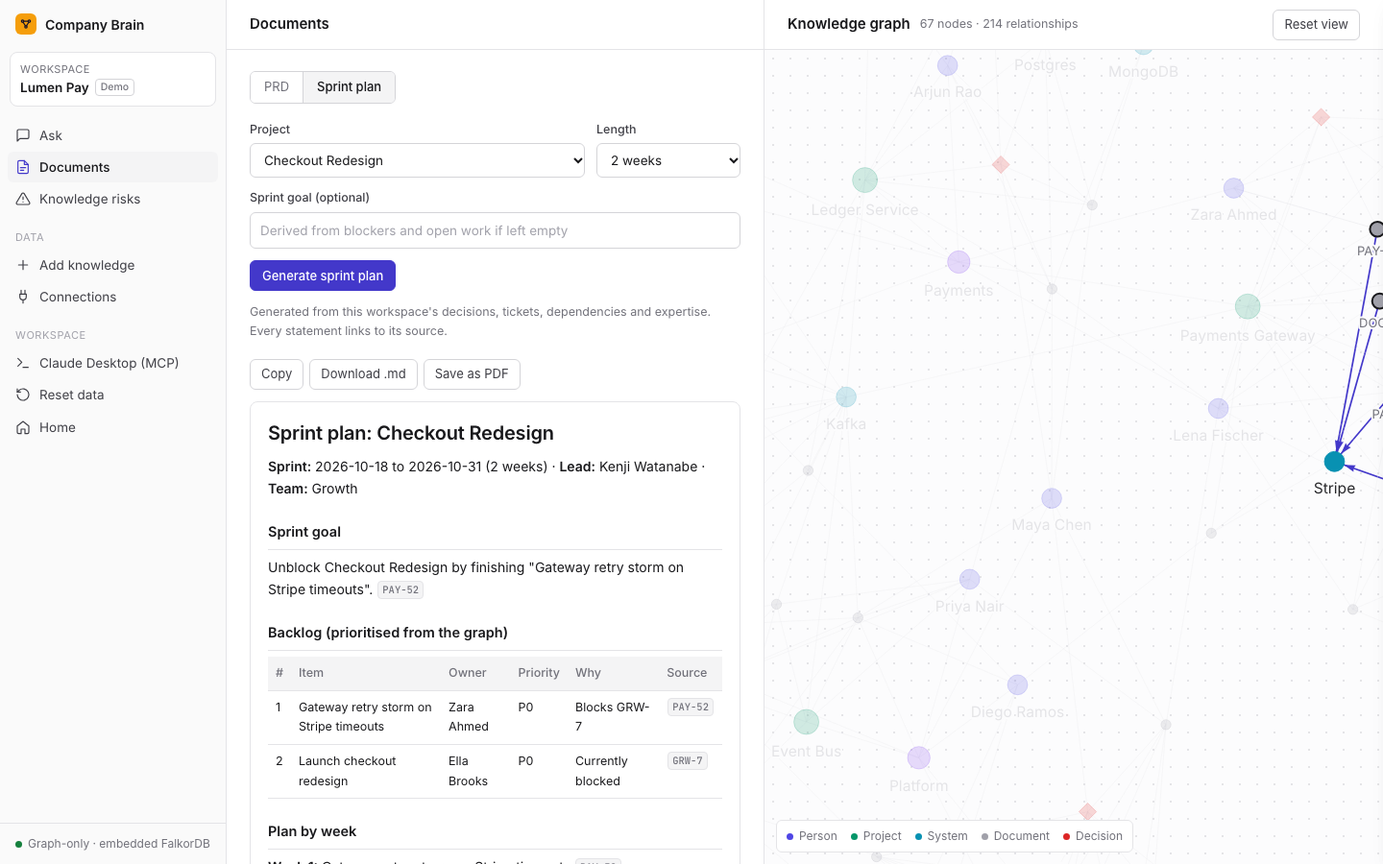
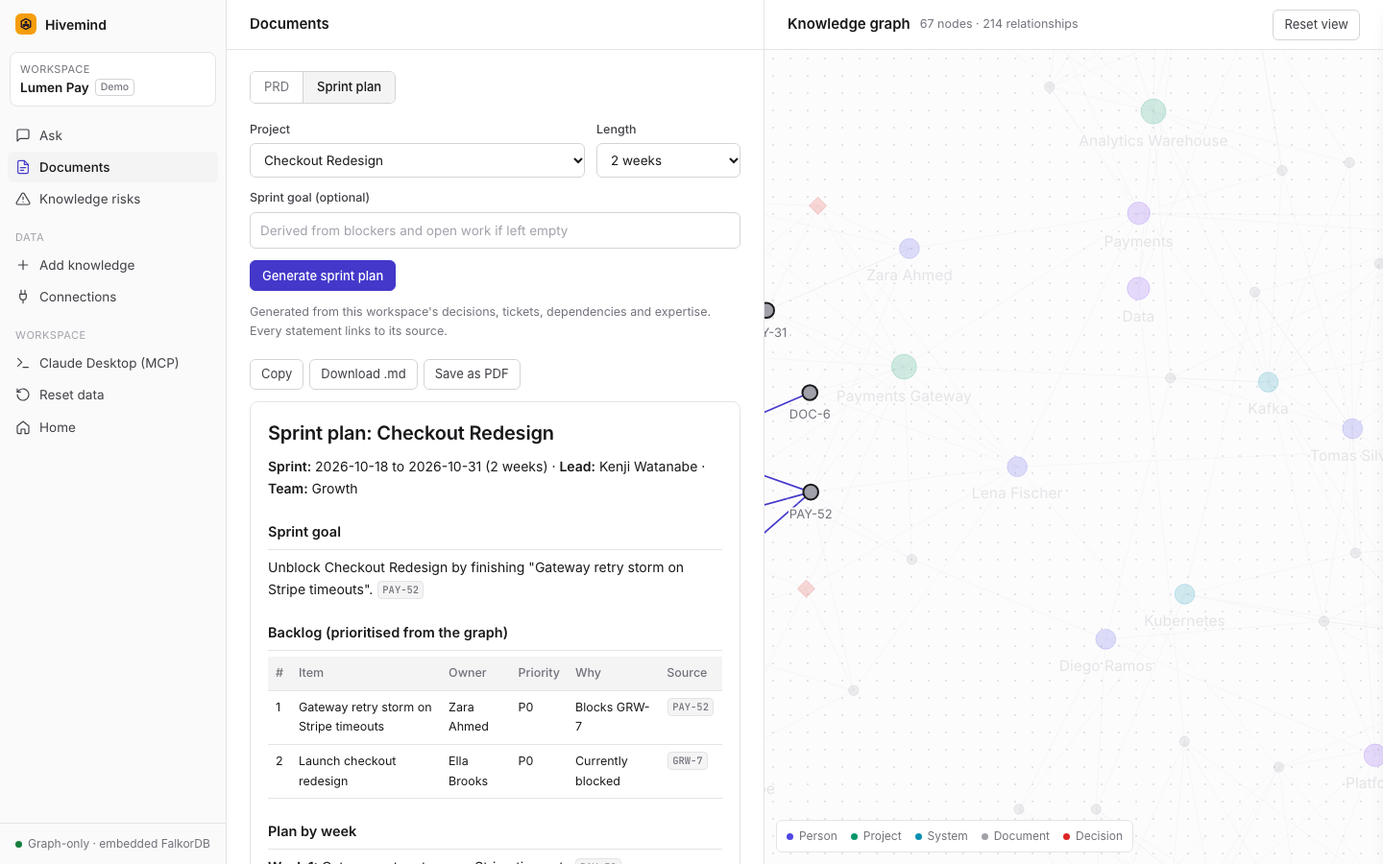
Rename the product to Hivemind
- New name across landing page, workspace app, README, MCP server, Slack app manifest and notifications
- Slack slash command is now /hivemind; hexagon 'hive' logo mark
- Cache-busting version on app.js so visitors get updates

diff --git a/static/landing.html b/static/landing.html
@@ -3,8 +3,8 @@
 <head>
 <meta charset="utf-8">
 <meta name="viewport" content="width=device-width, initial-scale=1">
-<title>Company Brain — The memory your company never had</title>
-<meta name="description" content="Company Brain turns your docs, tickets, chats and repositories into one knowledge graph. Ask who owns what, who knows what and why decisions were made — with sources — and generate PRDs and sprint plans.">
+<title>Hivemind — The memory your company never had</title>
+<meta name="description" content="Hivemind turns your docs, tickets, chats and repositories into one knowledge graph. Ask who owns what, who knows what and why decisions were made — with sources — and generate PRDs and sprint plans.">
 <link rel="preconnect" href="https://fonts.googleapis.com">
 <link rel="preconnect" href="https://images.unsplash.com">
 <link href="https://fonts.googleapis.com/css2?family=Fraunces:ital,opsz,wght@0,9..144,500;0,9..144,600;1,9..144,500&family=Inter:wght@400;500;600;700&family=JetBrains+Mono:wght@400;500&display=swap" rel="stylesheet">
@@ -228,7 +228,7 @@ footer .mark{width:24px;height:24px}
 </svg>
 
 <nav><div class="wrap">
-  <a class="brand" href="/"><span class="mark"><svg viewBox="0 0 24 24"><circle cx="6" cy="7" r="2"/><circle cx="18" cy="7" r="2"/><circle cx="12" cy="17" r="2"/><path d="M8 7h8M7 9l4 6M17 9l-4 6"/></svg></span>Company Brain</a>
+  <a class="brand" href="/"><span class="mark"><svg viewBox="0 0 24 24"><path d="M12 2.5 20.2 7.2v9.6L12 21.5 3.8 16.8V7.2z"/><circle cx="12" cy="9" r="1.6"/><circle cx="8.6" cy="14.4" r="1.6"/><circle cx="15.4" cy="14.4" r="1.6"/><path d="M12 10.6v0M10.5 13.3l.6-.9M13.5 13.3l-.6-.9M10.3 14.4h3.4"/></svg></span>Hivemind</a>
   <div class="links"><a href="#features">Features</a><a href="#tour">Product tour</a><a href="#connect">Integrations</a><a href="#how">How it works</a></div>
   <div class="r"><a class="btn ghost sm" href="/w/demo">Live demo</a><a class="btn sm" href="#start">Get started</a></div>
 </div></nav>
@@ -264,8 +264,8 @@ footer .mark{width:24px;height:24px}
 
 <section id="features"><div class="wrap">
   <div class="sec-head">
-    <div><div class="label">Features</div><h2>Not a search box. <em>A brain</em> that connects the dots.</h2></div>
-    <p>Company Brain models people, projects, systems, documents and decisions as a graph — so it can follow the relationships a keyword search can't.</p>
+    <div><div class="label">Features</div><h2>Not a search box. <em>A hive mind</em> that connects the dots.</h2></div>
+    <p>Hivemind models people, projects, systems, documents and decisions as a graph — so it can follow the relationships a keyword search can't.</p>
   </div>
   <div class="bento">
     <div class="tile t-big">
@@ -309,7 +309,7 @@ footer .mark{width:24px;height:24px}
   <div class="tourgrid">
     <div>
       <div class="pane on"><h3>"Why is checkout blocked?"</h3><p>The agent follows the graph from the project to the ticket that blocks it, and to the person who can fix it.</p>
-        <ul class="ticks"><li>Each step of the search shown live</li><li>Sources listed and clickable</li><li>Also in Slack with <span class="mono">/brain</span></li></ul></div>
+        <ul class="ticks"><li>Each step of the search shown live</li><li>Sources listed and clickable</li><li>Also in Slack with <span class="mono">/hivemind</span></li></ul></div>
       <div class="pane"><h3>A sprint plan in one click.</h3><p>Pick a project and length. The plan comes from its real tickets, blockers, decisions and experts.</p>
         <ul class="ticks"><li>Blockers before blocked work</li><li>Owners from assignees or expertise</li><li>Share to Slack, Teams or Discord</li></ul></div>
       <div class="pane"><h3>Know your bus factor.</h3><p>Graph algorithms surface where knowledge is concentrated and where work has quietly stalled.</p>
@@ -327,7 +327,7 @@ footer .mark{width:24px;height:24px}
   </div>
   <div>
     <div class="label">Why it matters</div>
-    <p class="pull">Knowledge leaves with people, hides in threads and repeats in meetings. <em>Company Brain keeps it.</em></p>
+    <p class="pull">Knowledge leaves with people, hides in threads and repeats in meetings. <em>Hivemind keeps it.</em></p>
     <ul class="ticks">
       <li>New hires find the answer — and the person — without asking around</li>
       <li>Decisions stop being re-argued: what, who, when and why are on record</li>
@@ -354,9 +354,9 @@ footer .mark{width:24px;height:24px}
       <div class="tool"><i style="background:#24292f">G</i><div><b>GitHub</b><span>Issues, PRs, comments</span></div></div>
       <div class="tool"><i style="background:#ff4f00">Z</i><div><b>Zapier · Make · n8n</b><span>Notion, email, anything</span></div></div>
     </div>
-    <div style="display:flex;align-items:center;gap:28px"><div class="arrow">→</div><div class="core"><div><b>Company<br>Brain</b><span>FalkorDB graph</span></div></div><div class="arrow">→</div></div>
+    <div style="display:flex;align-items:center;gap:28px"><div class="arrow">→</div><div class="core"><div><b>Hivemind</b><span>FalkorDB graph</span></div></div><div class="arrow">→</div></div>
     <div class="col"><h4>Answers out</h4>
-      <div class="tool"><i style="background:#4a154b">/</i><div><b>Slack</b><span><span class="mono">/brain</span> answers &amp; decision alerts</span></div></div>
+      <div class="tool"><i style="background:#4a154b">/</i><div><b>Slack</b><span><span class="mono">/hivemind</span> answers &amp; decision alerts</span></div></div>
       <div class="tool"><i style="background:#4b53bc">T</i><div><b>Microsoft Teams</b><span>Decision alerts &amp; shared plans</span></div></div>
       <div class="tool"><i style="background:#5865f2">D</i><div><b>Discord &amp; Google Chat</b><span>Decision alerts &amp; shared plans</span></div></div>
       <div class="tool"><i style="background:#d97757">C</i><div><b>Claude Desktop &amp; Cursor</b><span>Through MCP</span></div></div>
@@ -401,7 +401,7 @@ footer .mark{width:24px;height:24px}
 </div></section>
 
 <footer><div class="wrap">
-  <a class="brand" href="/" style="color:var(--ink)"><span class="mark"><svg viewBox="0 0 24 24"><circle cx="6" cy="7" r="2"/><circle cx="18" cy="7" r="2"/><circle cx="12" cy="17" r="2"/><path d="M8 7h8M7 9l4 6M17 9l-4 6"/></svg></span>Company Brain</a>
+  <a class="brand" href="/" style="color:var(--ink)"><span class="mark"><svg viewBox="0 0 24 24"><path d="M12 2.5 20.2 7.2v9.6L12 21.5 3.8 16.8V7.2z"/><circle cx="12" cy="9" r="1.6"/><circle cx="8.6" cy="14.4" r="1.6"/><circle cx="15.4" cy="14.4" r="1.6"/><path d="M12 10.6v0M10.5 13.3l.6-.9M13.5 13.3l-.6-.9M10.3 14.4h3.4"/></svg></span>Hivemind</a>
   <span>WeMakeDevs × FalkorDB Hackathon</span>
   <span>Photos: <a href="https://unsplash.com" target="_blank" rel="noopener">Unsplash</a></span>
 </div></footer>

diff --git a/static/app.js b/static/app.js
@@ -1,4 +1,4 @@
-// Company Brain workspace page: ask, write PRD / sprint plan, add info, and the company map.
+// Hivemind workspace page: ask, write PRD / sprint plan, add info, and the company map.
 const $ = id => document.getElementById(id);
 const esc = s => (s ?? '').toString().replace(/[&<>"]/g, c => ({ '&': '&amp;', '<': '&lt;', '>': '&gt;', '"': '&quot;' }[c]));
 const css = n => getComputedStyle(document.documentElement).getPropertyValue(n).trim();
@@ -156,7 +156,7 @@ document.addEventListener('click', async e => {
   if (act) {
     e.stopPropagation();
     const key = act.dataset.key, nd = act.dataset.act === 'nd';
-    if (!confirm(nd ? `Mark ${key} as not a decision? Anything it marked outdated becomes current again.` : `Remove ${key} from the brain?`)) return;
+    if (!confirm(nd ? `Mark ${key} as not a decision? Anything it marked outdated becomes current again.` : `Remove ${key} from Hivemind?`)) return;
     try {
       const r = (await api('/delete', { keys: [key] })).results[0];
       if (r.error) { toast(esc(r.error)); return; }
@@ -390,12 +390,12 @@ $('files').onchange = e => { importFiles([...e.target.files]); e.target.value = 
 ['dragleave', 'drop'].forEach(ev => $('drop').addEventListener(ev, e => { e.preventDefault(); $('drop').classList.remove('over'); }));
 $('drop').addEventListener('drop', e => importFiles([...e.dataTransfer.files]));
 function download(name, text, type) { const a = document.createElement('a'); a.href = URL.createObjectURL(new Blob([text], { type })); a.download = name; a.click(); }
-$('tpl-csv').onclick = e => { e.preventDefault(); download('company-brain-template.csv',
+$('tpl-csv').onclick = e => { e.preventDefault(); download('hivemind-template.csv',
   'kind,title,text,author,date,channel,status,assignee\n' +
   'meeting,Architecture review,"We decided to use Postgres for billing because the team knows it well.",Priya Sharma,2026-03-04,,,\n' +
   'message,,"Postgres replicas are lagging again, ping me if you see timeouts.",Arjun Mehta,2026-04-11,#infra,,\n' +
   'ticket,Fix replica lag,"Billing reads time out when replicas lag.",Priya Sharma,2026-04-12,,in_progress,Arjun Mehta\n', 'text/csv'); };
-$('tpl-json').onclick = e => { e.preventDefault(); download('company-brain-template.json', JSON.stringify({
+$('tpl-json').onclick = e => { e.preventDefault(); download('hivemind-template.json', JSON.stringify({
   people: [{ name: 'Priya Sharma', role: 'Engineering Manager', team: 'Platform' }, { name: 'Arjun Mehta', role: 'Backend Engineer', team: 'Payments' }],
   projects: [{ name: 'Billing', team: 'Payments', lead: 'Arjun Mehta', uses: ['Postgres', 'Stripe'] }],
   systems: [{ name: 'Postgres', aliases: ['postgresql', 'pg'] }, { name: 'Stripe' }],
@@ -409,7 +409,7 @@ $('gh-go').onclick = async () => {
   try {
     const r = await api('/import/github', { repo });
     setRes('gh-res', `Imported ${r.added} items from ${esc(r.repo)} into project <b>${esc(r.project)}</b>` +
-      (r.decisions ? `, found ${r.decisions} decisions` : '') + `. The brain now knows ${r.counts.Person || 0} people.`, true);
+      (r.decisions ? `, found ${r.decisions} decisions` : '') + `. Hivemind now knows ${r.counts.Person || 0} people.`, true);
     $('gh-repo').value = ''; await refresh();
   } catch (e) { if (e.message !== 'locked') setRes('gh-res', esc(e.message)); }
   $('gh-go').disabled = false;
@@ -452,7 +452,7 @@ $('c-save-slack').onclick = () => {
   if ($('c-secret').value.trim()) body.slack_signing_secret = $('c-secret').value.trim();
   if (!Object.keys(body).length) { setRes('c-slack-res', 'Paste the bot token and signing secret first.'); return; }
   $('c-token').value = ''; $('c-secret').value = '';
-  saveConn(body, 'c-slack-res', 'Slack saved. Invite @Company Brain to channels, then try /brain in Slack.');
+  saveConn(body, 'c-slack-res', 'Slack saved. Invite @Hivemind to channels, then try /hivemind in Slack.');
 };
 $('c-import-slack').onclick = async () => {
   setRes('c-slack-res', '<span class="spin"></span>Reading recent messages from channels the bot is in&hellip;', true);
@@ -525,7 +525,7 @@ const shareBtn = () => META && META.notify ? `<button class="ghost" data-share="
 
 // ---------- menu actions + gate ----------
 $('mcp').onclick = () => {
-  const cfg = { mcpServers: { 'company-brain': { command: 'python3', args: ['/path/to/mcp_server.py'],
+  const cfg = { mcpServers: { 'hivemind': { command: 'python3', args: ['/path/to/mcp_server.py'],
     env: { BRAIN_URL: location.origin, BRAIN_WORKSPACE: SLUG, BRAIN_KEY: META && META.workspace.demo ? '' : getKey() } } } };
   $('mcpcfg').textContent = JSON.stringify(cfg, null, 2); $('mcpmodal').classList.add('open');
 };
@@ -553,7 +553,7 @@ $('gate-go').onclick = () => {
 async function refresh() {
   try { META = await api('/meta'); } catch (e) { if (e.message !== 'locked') $('out').innerHTML = `<div class="card">${esc(e.message)}</div>`; return false; }
   const m = META;
-  document.title = m.workspace.name + ' · Company Brain';
+  document.title = m.workspace.name + ' · Hivemind';
   $('wsname').innerHTML = esc(m.workspace.name.replace(' (demo)', '')) + (m.workspace.demo ? '<span class="tag">Demo</span>' : '');
   $('mode').textContent = (m.claude ? 'Claude' : 'Graph-only') + ' · ' + m.backend;
   $('mode').title = m.claude ? 'Answers are planned and written by Claude using graph tools' : 'Answers come directly from graph queries (no AI key configured)';

diff --git a/static/index.html b/static/index.html
@@ -3,7 +3,7 @@
 <head>
 <meta charset="utf-8">
 <meta name="viewport" content="width=device-width, initial-scale=1">
-<title>Company Brain</title>
+<title>Hivemind</title>
 <link rel="preconnect" href="https://fonts.googleapis.com">
 <link href="https://fonts.googleapis.com/css2?family=Inter:wght@400;500;600&family=JetBrains+Mono:wght@400;500&display=swap" rel="stylesheet">
 <script src="https://unpkg.com/vis-network@9.1.9/standalone/umd/vis-network.min.js"></script>
@@ -237,7 +237,7 @@ details.team summary{font-size:14px;color:var(--ink);font-weight:600}
 
 <div class="shell" id="shell">
   <aside class="side">
-    <a href="/" class="brand"><span class="mark"><svg viewBox="0 0 24 24"><circle cx="6" cy="7" r="2"/><circle cx="18" cy="7" r="2"/><circle cx="12" cy="17" r="2"/><path d="M8 7h8M7 9l4 6M17 9l-4 6"/></svg></span><span>Company Brain</span></a>
+    <a href="/" class="brand"><span class="mark"><svg viewBox="0 0 24 24"><path d="M12 2.5 20.2 7.2v9.6L12 21.5 3.8 16.8V7.2z"/><circle cx="12" cy="9" r="1.6"/><circle cx="8.6" cy="14.4" r="1.6"/><circle cx="15.4" cy="14.4" r="1.6"/><path d="M12 10.6v0M10.5 13.3l.6-.9M13.5 13.3l-.6-.9M10.3 14.4h3.4"/></svg></span><span>Hivemind</span></a>
     <div class="wsbox"><div class="lbl">Workspace</div><div class="ws" id="wsname">&hellip;</div></div>
     <nav class="nav">
       <button class="on" data-view="ask"><svg class="i"><use href="#i-ask"/></svg>Ask</button>
@@ -371,11 +371,11 @@ details.team summary{font-size:14px;color:var(--ink);font-weight:600}
 
     <div class="sec card">
       <h4>Slack</h4>
-      <p class="d">Messages from channels the app is added to are captured automatically, and <span class="mono">/brain &lt;question&gt;</span> returns cited answers in Slack.</p>
+      <p class="d">Messages from channels the app is added to are captured automatically, and <span class="mono">/hivemind &lt;question&gt;</span> returns cited answers in Slack.</p>
       <ol class="muted" style="font-size:13px;line-height:1.75;padding-left:18px;margin:0 0 12px">
         <li><a href="#" id="c-manifest">Copy the app manifest</a>, then on <a href="https://api.slack.com/apps?new_app=1" target="_blank" rel="noopener">api.slack.com/apps</a> select <b>Create New App → From a manifest</b>.</li>
         <li>Install the app, then paste the <b>Bot User OAuth Token</b> and <b>Signing Secret</b>.</li>
-        <li>Add <b>@Company Brain</b> to the channels it should learn from.</li>
+        <li>Add <b>@Hivemind</b> to the channels it should learn from.</li>
       </ol>
       <div class="row"><div><label class="f">Bot token</label><input id="c-token" placeholder="xoxb-..." autocomplete="off"></div>
         <div><label class="f">Signing secret</label><input id="c-secret" type="password" placeholder="••••••" autocomplete="off"></div></div>
@@ -430,6 +430,6 @@ details.team summary{font-size:14px;color:var(--ink);font-weight:600}
   <div style="display:flex;gap:8px"><button class="btn" id="mcpcopy">Copy configuration</button><button class="ghost" id="mcpclose">Close</button></div>
 </div></div>
 <div class="toast" id="toast"></div>
-<script src="/static/app.js"></script>
+<script src="/static/app.js?v=hivemind-1"></script>
 </body>
 </html>

diff --git a/mcp_server.py b/mcp_server.py
@@ -1,9 +1,9 @@
-"""MCP server for Company Brain: use a company's brain from Claude Desktop, Cursor or any MCP client.
+"""MCP server for Hivemind: use a company's brain from Claude Desktop, Cursor or any MCP client.
 
-It talks to a running Company Brain site over HTTP, so it works with the hosted version.
+It talks to a running Hivemind site over HTTP, so it works with the hosted version.
 
 Setup (Claude Desktop, claude_desktop_config.json):
-  {"mcpServers": {"company-brain": {"command": "python3", "args": ["/path/to/mcp_server.py"],
+  {"mcpServers": {"hivemind": {"command": "python3", "args": ["/path/to/mcp_server.py"],
      "env": {"BRAIN_URL": "https://your-site.onrender.com", "BRAIN_WORKSPACE": "your-workspace-slug",
              "BRAIN_KEY": "your-private-key"}}}}
 Requires: pip install mcp
@@ -22,8 +22,8 @@ BASE = os.environ.get("BRAIN_URL", "http://localhost:8000").rstrip("/")
 SLUG = os.environ.get("BRAIN_WORKSPACE", "demo")
 KEY = os.environ.get("BRAIN_KEY", "")
 
-server = _Server("company-brain", instructions=(
-    "Company Brain holds this company's people, teams, projects, tools, docs, tickets, chats and decisions as a "
+server = _Server("hivemind", instructions=(
+    "Hivemind holds this company's people, teams, projects, tools, docs, tickets, chats and decisions as a "
     "knowledge graph. Use ask_company for questions (who owns/knows what, why decisions were made), "
     "write_prd / write_sprint_plan for planning documents, and add_to_brain to record new knowledge. "
     "Keep the [KEY] citations in answers so people can check the sources."))
@@ -42,9 +42,9 @@ def _call(path: str, body: dict | None = None) -> dict:
             detail = json.loads(e.read().decode()).get("detail")
         except Exception:
             detail = None
-        raise RuntimeError(detail if isinstance(detail, str) else f"Company Brain returned HTTP {e.code}")
+        raise RuntimeError(detail if isinstance(detail, str) else f"Hivemind returned HTTP {e.code}")
     except urllib.error.URLError as e:
-        raise RuntimeError(f"Could not reach Company Brain at {BASE}: {e.reason}")
+        raise RuntimeError(f"Could not reach Hivemind at {BASE}: {e.reason}")
 
 
 def _with_sources(text: str, citations: list) -> str:
@@ -56,7 +56,7 @@ def _with_sources(text: str, citations: list) -> str:
 
 @server.tool()
 def ask_company(question: str) -> str:
-    """Ask the company brain a question, e.g. who owns a project, who knows a system, why a decision was made,
+    """Ask Hivemind a question, e.g. who owns a project, who knows a system, why a decision was made,
     what is blocked, or where the knowledge risks are. Returns an answer with [KEY] citations and the sources."""
     r = _call("/ask", {"question": question[:400]})
     return _with_sources(r["answer"], r.get("citations", []))

diff --git a/integrations.py b/integrations.py
@@ -1,11 +1,11 @@
-"""Connections between a company brain and the tools the company already uses.
+"""Connections between a Hivemind workspace and the tools the company already uses.
 
 In:
   - Slack app (Events API): messages in channels the bot is in are added as they happen.
   - Slack history import (Web API) and Slack export ZIP (parsed in the browser).
   - Incoming webhook per workspace: Jira, Linear, GitHub, or anything via Zapier / Make / n8n (generic JSON).
 Out:
-  - Slack slash command: /brain <question> answers in Slack with sources.
+  - Slack slash command: /hivemind <question> answers in Slack with sources.
   - Notifications to Slack, Discord, Microsoft Teams or Google Chat when decisions are made or replaced,
     and on demand ("Send to channel") for answers, PRDs and sprint plans.
 
@@ -167,7 +167,7 @@ def notify_change(slug: str, change: dict, link: str = "") -> None:
     if change.get("superseded"):
         msg += f"\nThis replaces {', '.join(change['superseded'])}, which is now marked outdated."
     msg += f"\nSource: [{change['source']}]" + (f" · {link}" if link else "")
-    threading.Thread(target=notify, args=(slug, msg, "Company Brain", "decision"), daemon=True).start()
+    threading.Thread(target=notify, args=(slug, msg, "Hivemind", "decision"), daemon=True).start()
 
 
 # ---------------- Slack ----------------
@@ -256,11 +256,11 @@ def slack_history(token: str, max_channels: int = 5, per_channel: int = 150) -> 
 def slack_manifest(base_url: str, slug: str, company: str) -> dict:
     """A Slack app manifest with this workspace's URLs filled in (Slack: Create app -> From a manifest)."""
     return {
-        "display_information": {"name": "Company Brain", "description": f"Ask {company}'s company brain",
+        "display_information": {"name": "Hivemind", "description": f"Ask {company}'s Hivemind",
                                 "background_color": "#0b0b12"},
-        "features": {"bot_user": {"display_name": "Company Brain", "always_online": True},
-                     "slash_commands": [{"command": "/brain", "url": f"{base_url}/slack/{slug}/command",
-                                         "description": "Ask the company brain", "usage_hint": "Who owns checkout?",
+        "features": {"bot_user": {"display_name": "Hivemind", "always_online": True},
+                     "slash_commands": [{"command": "/hivemind", "url": f"{base_url}/slack/{slug}/command",
+                                         "description": "Ask Hivemind", "usage_hint": "Who owns checkout?",
                                          "should_escape": False}]},
         "oauth_config": {"scopes": {"bot": ["commands", "channels:history", "channels:read", "users:read",
                                             "chat:write"]}},

diff --git a/server.py b/server.py
@@ -1,4 +1,4 @@
-"""Company Brain web app: a public demo company plus private workspaces any company can register.
+"""Hivemind web app: a public demo company plus private workspaces any company can register.
 
 Local:  .venv/bin/python server.py   then open http://localhost:8000
 Online: the host sets PORT; the app listens on 0.0.0.0 (see render.yaml).
@@ -36,7 +36,7 @@ async def lifespan(app):
     yield
 
 
-app = FastAPI(title="Company Brain", lifespan=lifespan)
+app = FastAPI(title="Hivemind", lifespan=lifespan)
 HERE = os.path.dirname(os.path.abspath(__file__))
 app.mount("/static", StaticFiles(directory=os.path.join(HERE, "static")), name="static")
 
@@ -441,7 +441,7 @@ def test_notify(request: Request, w: dict = Depends(ws)):
     if not s.get("notify_url"):
         raise HTTPException(400, "Add a channel webhook URL first.")
     try:
-        integrations.send(s["notify_url"], f"Company Brain for **{w['name']}** is connected. Decisions and shared "
+        integrations.send(s["notify_url"], f"Hivemind for **{w['name']}** is connected. Decisions and shared "
                                            f"answers will appear here.\n{_public_base(request)}/w/{w['slug']}")
     except Exception as e:
         raise HTTPException(400, f"The chat app rejected the message: {e}")
@@ -565,7 +565,7 @@ async def slack_command(slug: str, request: Request):
     question = (form.get("text") or "").strip()[:400]
     response_url = form.get("response_url", "")
     if not question:
-        return JSONResponse({"response_type": "ephemeral", "text": "Ask a question, e.g. `/brain who owns checkout?`"})
+        return JSONResponse({"response_type": "ephemeral", "text": "Ask a question, e.g. `/hivemind who owns checkout?`"})
     if urllib.parse.urlparse(response_url).hostname not in ("hooks.slack.com",):
         raise HTTPException(400, "Bad response_url.")
     base = _public_base(request)
@@ -579,7 +579,7 @@ async def slack_command(slug: str, request: Request):
         srcs = "\n".join(f"• [{c['key']}] {c['title']} ({c.get('author') or c['kind']}, {c.get('date') or ''})"
                          for c in r["citations"][:6])
         text = integrations.to_chat_text(f"**Q: {question}**\n{r['answer']}" + (f"\n\n**Sources**\n{srcs}" if srcs else "")
-                                         + f"\n<{base}/w/{slug}?ask={urllib.parse.quote(question)}|Open in Company Brain>", "slack")
+                                         + f"\n<{base}/w/{slug}?ask={urllib.parse.quote(question)}|Open in Hivemind>", "slack")
         try:
             integrations._post_json(response_url, {"response_type": "in_channel", "text": text[:39000]})
         except Exception as e:

diff --git a/brain_github.py b/brain_github.py
@@ -25,7 +25,7 @@ def parse_repo(text: str) -> tuple[str, str]:
 
 def _get(path: str):
     req = urllib.request.Request(API + path, headers={"Accept": "application/vnd.github+json",
-                                                      "User-Agent": "company-brain"})
+                                                      "User-Agent": "hivemind"})
     if os.environ.get("GITHUB_TOKEN"):
         req.add_header("Authorization", "Bearer " + os.environ["GITHUB_TOKEN"])
     try:

diff --git a/brain_agent.py b/brain_agent.py
@@ -13,7 +13,7 @@ from graph_db import get_graph
 
 CITE_RE = re.compile(r"\[((?:[A-Z]{2,5})-\d+)\]")
 
-SYSTEM = """You are the Company Brain for {company}. Company knowledge (people, teams, projects, systems,
+SYSTEM = """You are the Hivemind for {company}. Company knowledge (people, teams, projects, systems,
 docs, tickets, chat messages, meeting notes and decisions) lives in a FalkorDB graph.
 
 Rules:

diff --git a/README.md b/README.md
@@ -1,10 +1,10 @@
-# Company Brain — Track 03 (WeMakeDevs × FalkorDB)
+# Hivemind — Track 03 (WeMakeDevs × FalkorDB)
 
 **Any company can turn its docs, tickets, meeting notes, chats and GitHub repos into one connected FalkorDB graph, then ask who owns what, who actually knows what, and why decisions were made, and generate a PRD or sprint plan from it. Every answer and every line is linked to its source.**
 
 **Live demo:** [link goes here after deploy] — open the Lumen Pay demo, or create your own workspace. Nothing to install.
 
-![Company Brain landing page](docs/landing.png)
+![Hivemind landing page](docs/landing.png)
 
 ![A cited answer with the related part of the knowledge graph highlighted](docs/ask.png)
 
@@ -17,10 +17,10 @@
 1. **Register your company.** You get a private workspace with its own FalkorDB graph and a secret access link.
 2. **Bring your knowledge.** Paste docs, meeting notes, tickets and chats; upload `.txt`, `.md`, `.csv` or `.json`; **import a GitHub repo**; or **connect your tools** (below). Everything is linked to the right people, projects and tools automatically.
 3. **Connect Slack and other platforms, in both directions.**
-   - **Slack app:** messages in channels the bot is in flow in live, `/brain <question>` answers in Slack with sources, and recent channel history can be imported. No Slack app? Upload a Slack export `.zip`.
+   - **Slack app:** messages in channels the bot is in flow in live, `/hivemind <question>` answers in Slack with sources, and recent channel history can be imported. No Slack app? Upload a Slack export `.zip`.
    - **Jira, Linear, GitHub webhooks,** plus anything via Zapier, Make or n8n (Teams, Notion, Google Docs, email): one private webhook URL per company.
    - **Notifications out** to Slack, Discord, Microsoft Teams or Google Chat: new and replaced decisions are announced, and any answer, PRD or sprint plan can be sent to the channel.
-4. **Ask anything.** "Why did we choose Postgres?", "Who should I ask about Kafka?", "Why is checkout blocked?" The brain follows the connections, shows each step live, cites its sources, and highlights the path on the map.
+4. **Ask anything.** "Why did we choose Postgres?", "Who should I ask about Kafka?", "Why is checkout blocked?" Hivemind follows the connections, shows each step live, cites its sources, and highlights the path on the map.
 5. **See who actually knows what.** Expertise comes from evidence (who wrote about it, who was assigned it, who colleagues thank), not from org charts, and it's shown next to formal ownership.
 6. **Write a PRD or sprint plan** for any project in one click. Blockers are scheduled first, owners come from assignees or whoever has hands-on experience, risks are flagged, and every line is cited. Download as Markdown or save as PDF.
 7. **Find knowledge risks** with FalkorDB's graph algorithms: key connectors, single points of failure, stalled work, and knowledge nobody is linked to.
@@ -74,7 +74,7 @@ Open **Connect apps** in a workspace. Each company connects its own tools; the s
 
 | Tool | Direction | How |
 |---|---|---|
-| Slack | In (live) + `/brain` answers | Copy the generated app manifest → api.slack.com/apps → *From a manifest* → install, then paste the bot token and signing secret. Every request is checked against the signing secret (HMAC, 5-minute window); Slack's retries and bot posts are ignored. |
+| Slack | In (live) + `/hivemind` answers | Copy the generated app manifest → api.slack.com/apps → *From a manifest* → install, then paste the bot token and signing secret. Every request is checked against the signing secret (HMAC, 5-minute window); Slack's retries and bot posts are ignored. |
 | Slack history | In | "Import recent channel history" (channels the bot is in), or upload a Slack export `.zip`, which is parsed in the browser |
 | Jira, Linear, GitHub | In | Point their webhooks at the private URL `/hooks/<workspace>/<token>`. Their native payloads are recognised. |
 | Zapier, Make, n8n | In | POST `{"text","author","channel","kind"}` (or `{"items":[...]}`) to the same URL; this reaches Teams, Notion, Google Docs, email and more |
@@ -85,7 +85,7 @@ Secrets are stored on the workspace's registry node, are never returned to the b
 ## Quality
 
 - **Accuracy check** (`python eval_qa.py`): 10 questions about the demo company, where each answer must contain the right facts and cite the right sources. **Graph-only mode: 10/10.** Run it with `ANTHROPIC_API_KEY` set to score Claude mode.
-- **Tests** (`python -m pytest -q`): 21 tests. 9 cover connections: Slack signature checks (valid, wrong, expired), live Slack messages becoming knowledge and announcing decisions, `/brain` answering in channel, Jira, Linear, GitHub and generic webhooks, the chat-host allowlist, hidden secrets, and demo protection. The other 12 cover company isolation, access keys, people deduplication, linking without AI, decisions not over-detected, replace-and-undo of decisions, deletion, cited answers, sprint ordering, PRD sections, the graph algorithms, and the full API including live steps.
+- **Tests** (`python -m pytest -q`): 21 tests. 9 cover connections: Slack signature checks (valid, wrong, expired), live Slack messages becoming knowledge and announcing decisions, `/hivemind` answering in channel, Jira, Linear, GitHub and generic webhooks, the chat-host allowlist, hidden secrets, and demo protection. The other 12 cover company isolation, access keys, people deduplication, linking without AI, decisions not over-detected, replace-and-undo of decisions, deletion, cited answers, sprint ordering, PRD sections, the graph algorithms, and the full API including live steps.
 - **Scale:** importing 400 items takes under a second. Above 450 nodes the map shows an overview and loads just the part behind each answer.
 
 ## Use it from Claude Desktop (MCP)
@@ -93,7 +93,7 @@ Secrets are stored on the workspace's registry node, are never returned to the b
 `mcp_server.py` exposes `ask_company`, `list_projects`, `write_prd`, `write_sprint_plan` and `add_to_brain`. In the app, choose menu (···) → **Use in Claude Desktop** to copy a ready-made config, or write it yourself:
 
 ```json
-{"mcpServers": {"company-brain": {"command": "python3", "args": ["/path/to/mcp_server.py"],
+{"mcpServers": {"hivemind": {"command": "python3", "args": ["/path/to/mcp_server.py"],
   "env": {"BRAIN_URL": "https://your-site.onrender.com", "BRAIN_WORKSPACE": "your-slug", "BRAIN_KEY": "your-key"}}}}
 ```
 
@@ -141,7 +141,7 @@ Deep links: `/w/demo?ask=Who owns checkout?` or `/w/demo?write=sprint&project=pr
 
 - **Access is a secret link,** with no accounts. A lost link can't be recovered, and the setup screens say so. Real sign-in is the next step.
 - **Rate limits are kept in memory,** so they reset when the server restarts, and each server instance has its own.
-- **Without an AI key,** new items are linked only to people, projects and tools the brain already knows about (plus @mentions and about 100 common technologies). Decisions are found by phrases like "we decided" or "we're moving", and they can be undone with "Not a decision".
+- **Without an AI key,** new items are linked only to people, projects and tools Hivemind already knows about (plus @mentions and about 100 common technologies). Decisions are found by phrases like "we decided" or "we're moving", and they can be undone with "Not a decision".
 - **Connection secrets** are stored as-is in the registry graph. Production should encrypt them or use a secrets manager. Slack setup is one app per company (a manifest is generated), not a one-click "Add to Slack" listing.
 - **GitHub import** reads the 100 most recently updated issues and pull requests and their recent comments, from public repos only.
 
